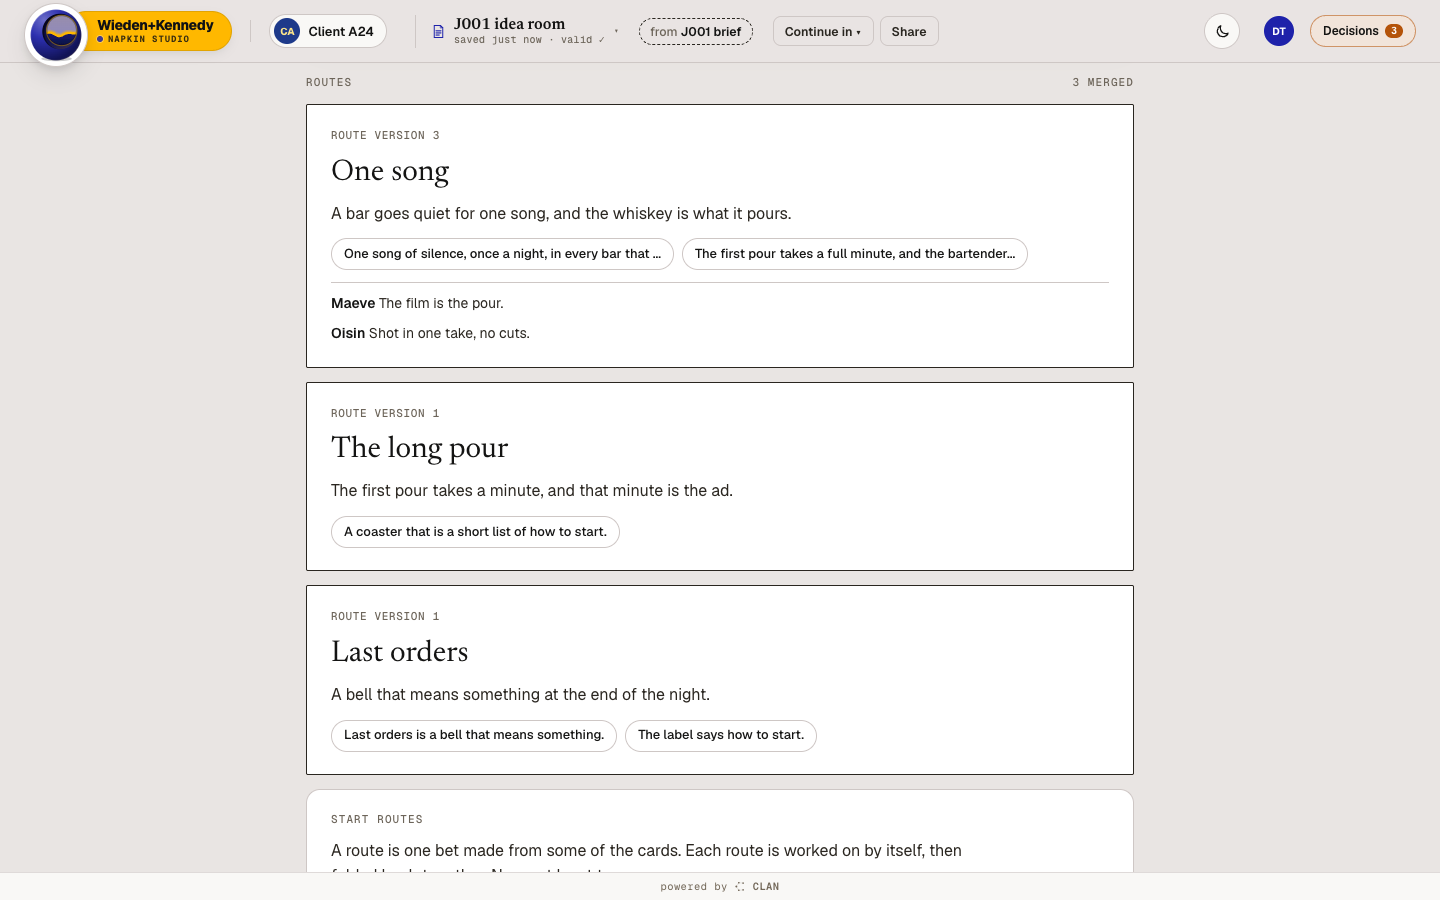
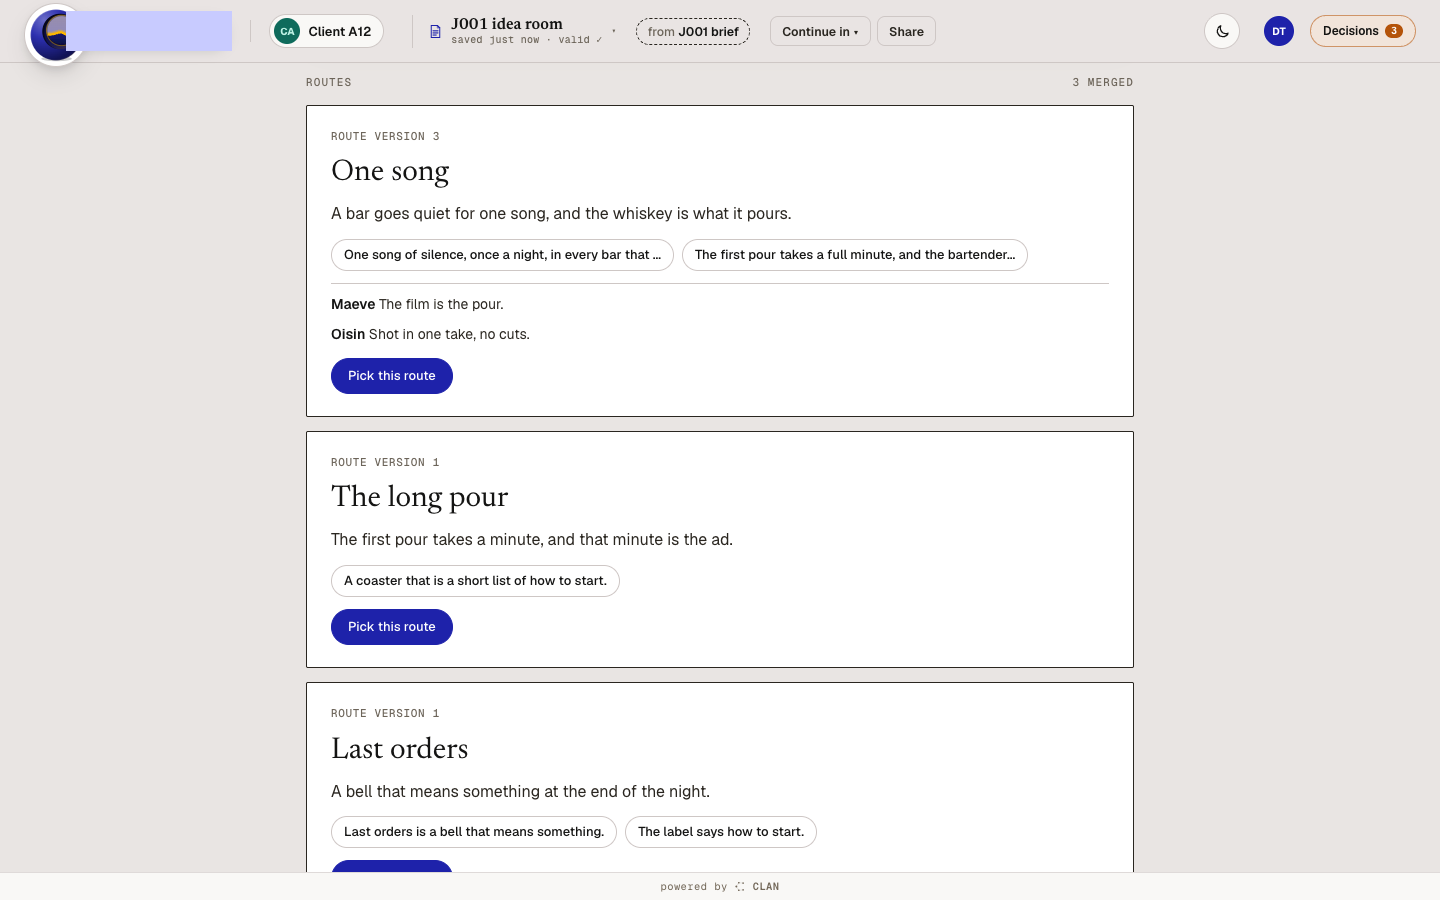
docs: retake the Idea room screenshots with the agency name masked
The roster agency wk wears a real agency's name, and the top bar showed
it in all 20 committed shots. The spec's shot helper now masks the agency
pill, as the Script editor's does, and the shots are retaken from it.

diff --git a/app/e2e/j001-p2-idea-room.spec.ts b/app/e2e/j001-p2-idea-room.spec.ts
@@ -127,7 +127,8 @@ async function shot(page: Page, name: string, size: Size, at?: string) {
   if (await page.locator('iframe').count()) await frameOf(page).locator('body').evaluate((_b, sel) => { const el = sel ? document.querySelector(sel) : null; window.scrollTo(0, el ? el.getBoundingClientRect().top + window.scrollY - 12 : 0) }, at ?? '')
   await page.evaluate(() => window.scrollTo(0, 0))
   await page.waitForTimeout(600)
-  await page.screenshot({ path: join(SHOTS, `${name}-${size.tag}.png`), fullPage: size.width < 1000 })
+  // The roster agency wears a real agency's name: it is masked, never shown.
+  await page.screenshot({ path: join(SHOTS, `${name}-${size.tag}.png`), fullPage: size.width < 1000, mask: [page.getByTestId('agency-pill')], maskColor: '#C8CBFF' })
 }
 
 for (const size of SIZES) {
